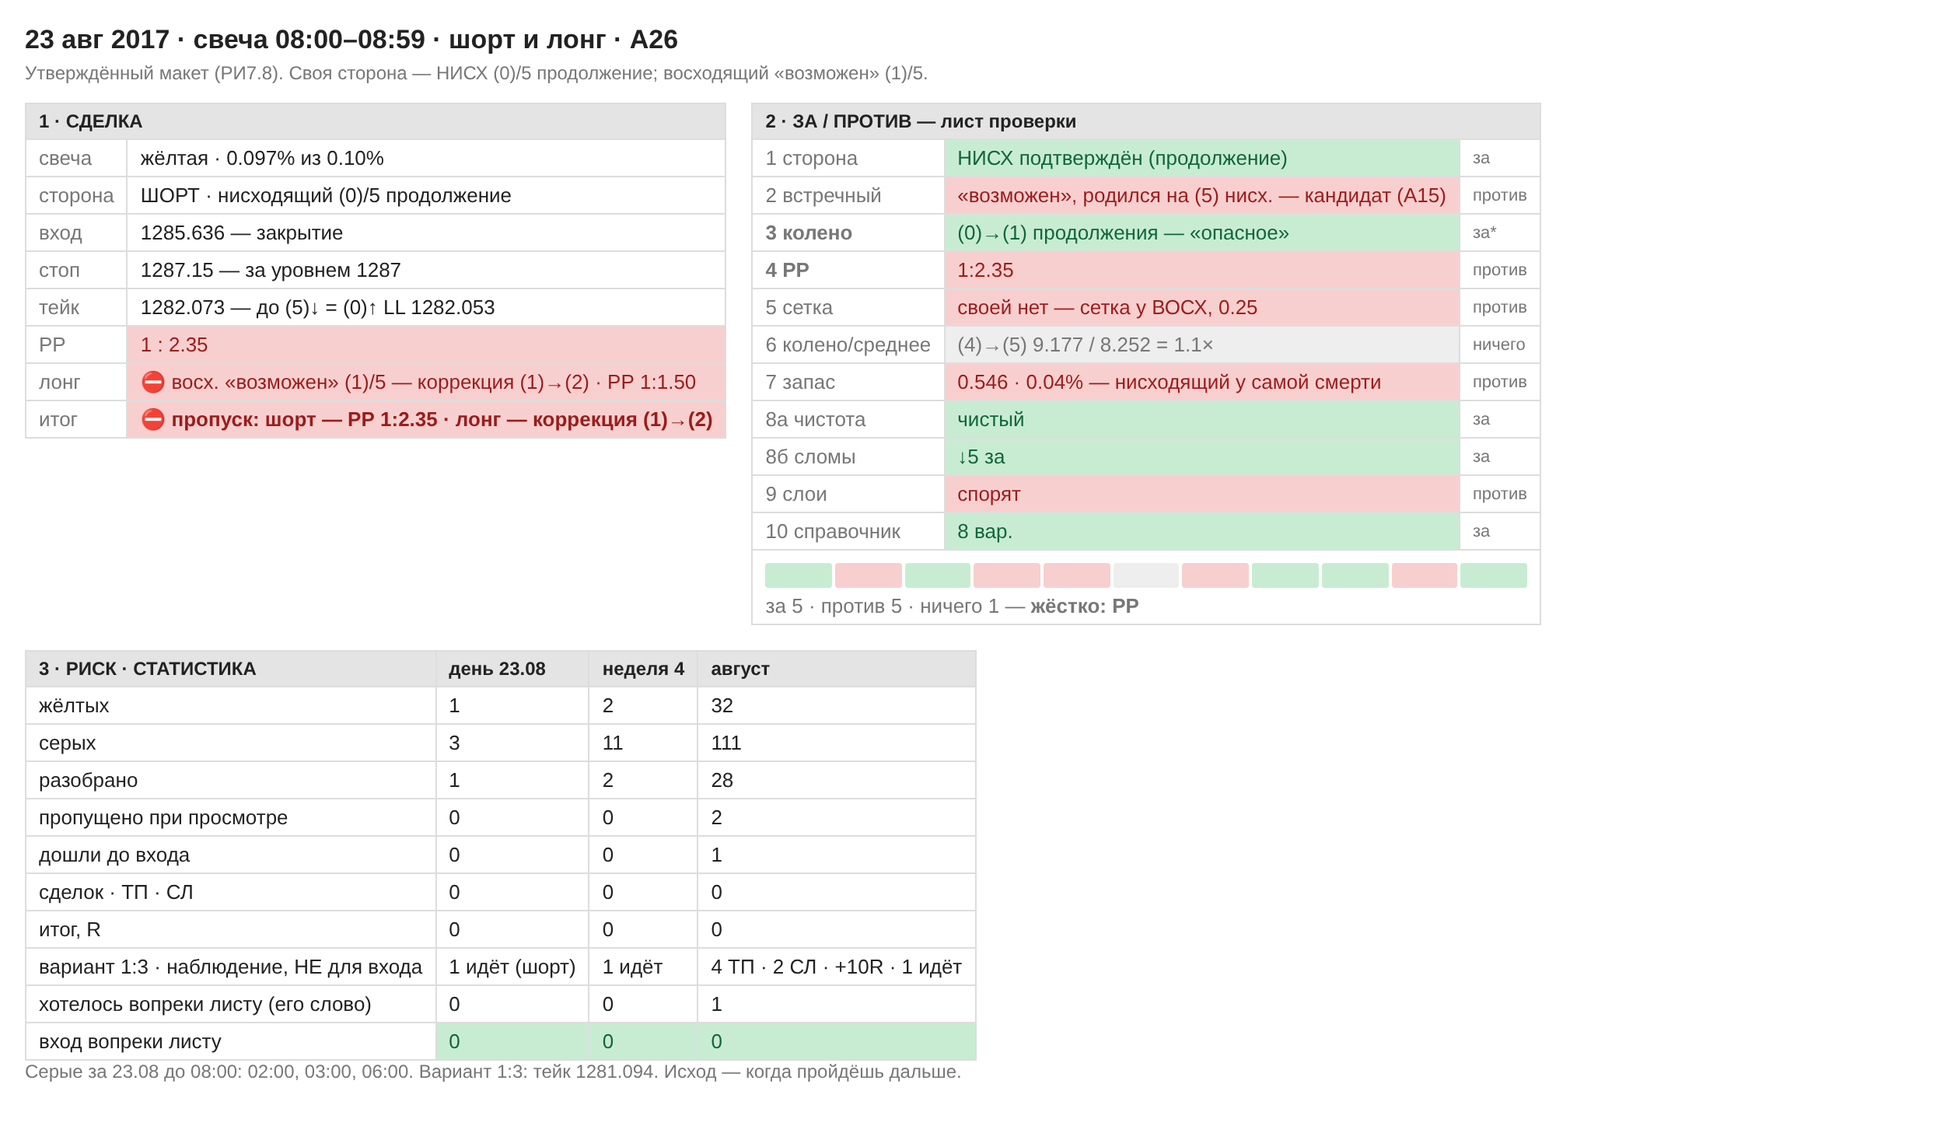
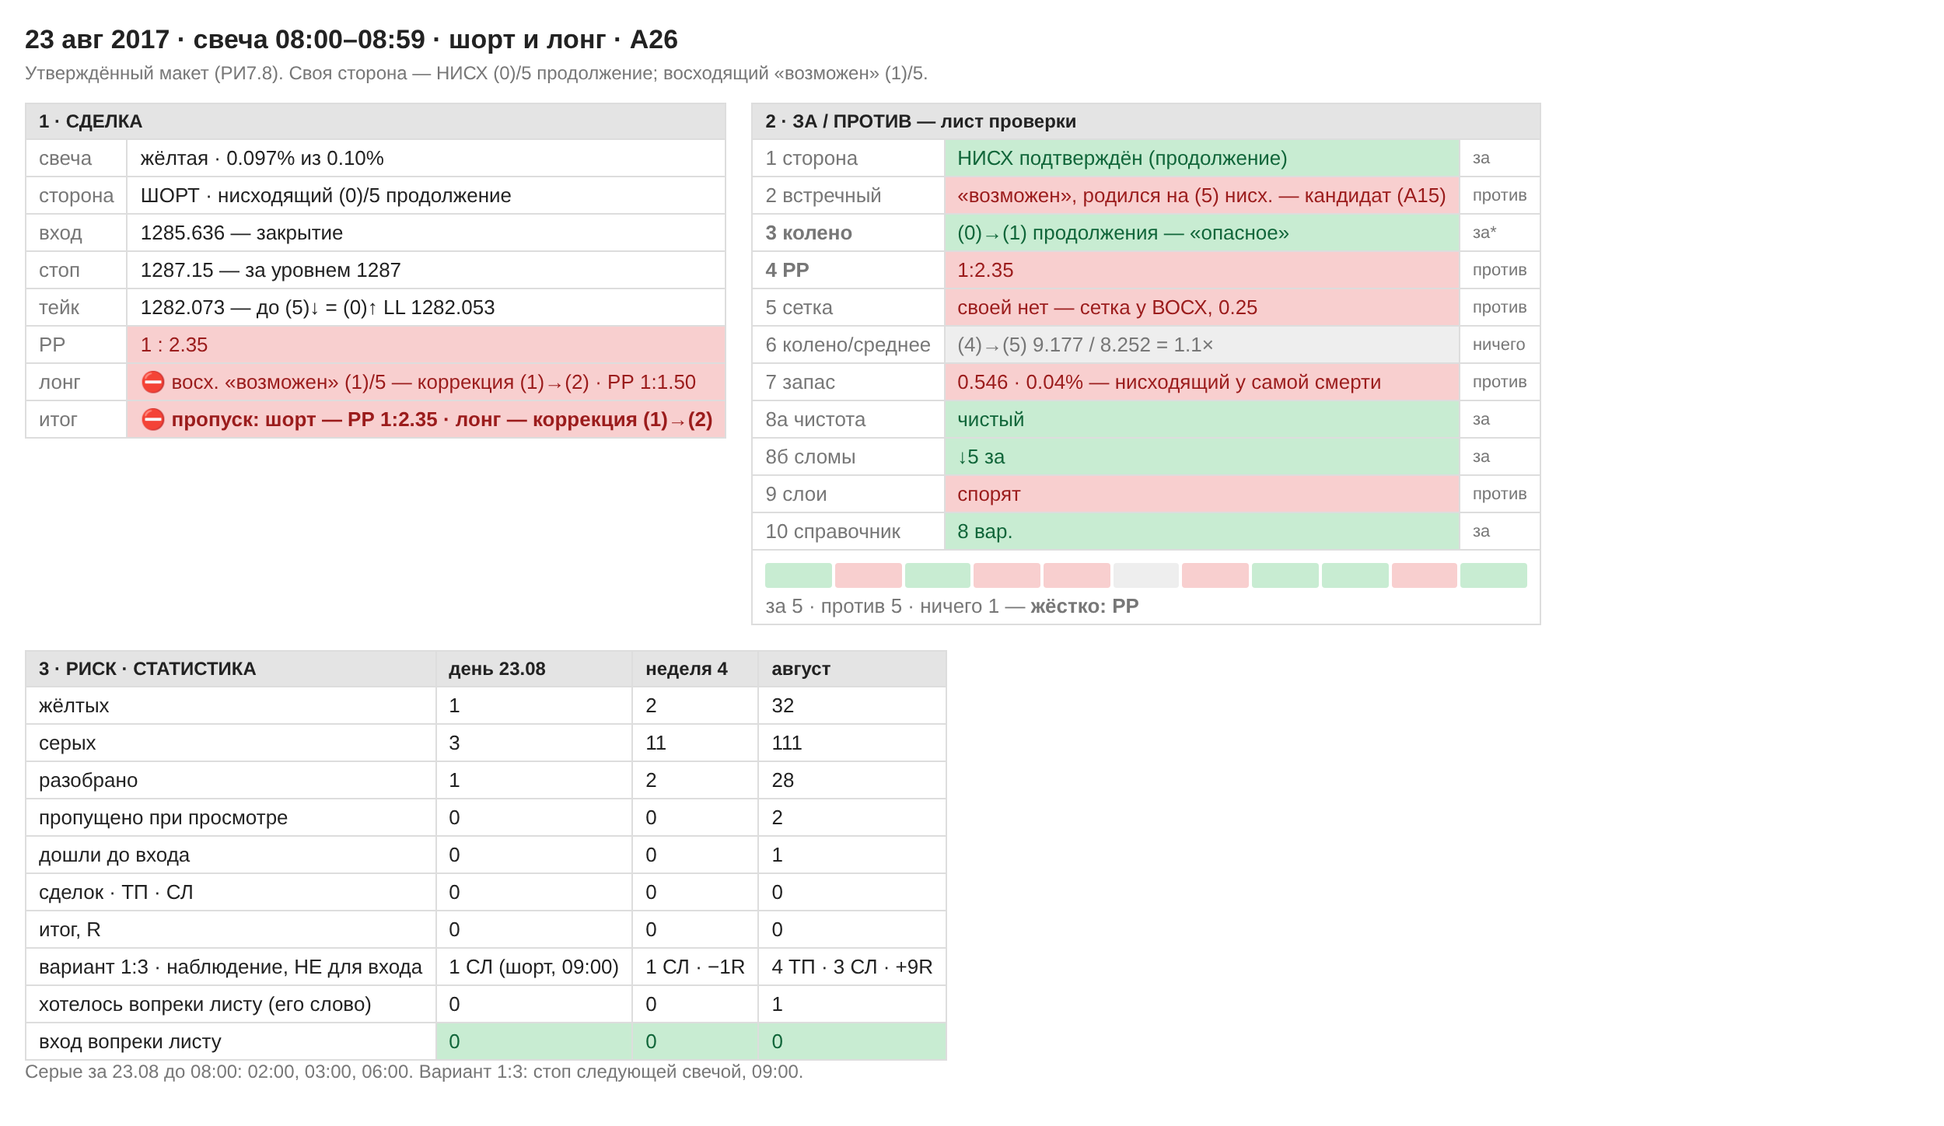
23 авг 08:00: шорт и вариант 1:3 — стоп в 09:00, его слово, сверено; В36 7 случаев, +9R
Claude-Session: https://claude.ai/code/session_01TnuyYeu48W8E686G1zottP

diff --git a/research/out/maket/2017-08-23_0800.html b/research/out/maket/2017-08-23_0800.html
@@ -6,4 +6,4 @@ table{border-collapse:collapse;min-width:360px}td,th{border:1px solid var(--ln);
 th{background:var(--h);font-size:12px}.blk td:first-child{color:var(--mut);white-space:nowrap}
 .g{background:var(--g);color:var(--gt)}.r{background:var(--r);color:var(--rt)}.n{background:var(--n);color:var(--mut)}
 .hard{font-weight:bold}.tag{font-size:11px;color:var(--mut)}
-.bar{display:flex;gap:2px;margin:4px 0}.bar span{flex:1;height:16px;border-radius:2px}</style></head><body><h1>23 авг 2017 · свеча 08:00–08:59 · шорт и лонг · А26</h1><p class="sub">Утверждённый макет (РИ7.8). Своя сторона — НИСХ (0)/5 продолжение; восходящий «возможен» (1)/5.</p><div class="wrap"><table class="blk"><tr><th colspan="2">1 · СДЕЛКА</th></tr><tr><td>свеча</td><td class="">жёлтая · 0.097% из 0.10%</td></tr><tr><td>сторона</td><td class="">ШОРТ · нисходящий (0)/5 продолжение</td></tr><tr><td>вход</td><td class="">1285.636 — закрытие</td></tr><tr><td>стоп</td><td class="">1287.15 — за уровнем 1287</td></tr><tr><td>тейк</td><td class="">1282.073 — до (5)↓ = (0)↑ LL 1282.053</td></tr><tr><td>РР</td><td class="r">1 : 2.35</td></tr><tr><td>лонг</td><td class="r">⛔ восх. «возможен» (1)/5 — коррекция (1)→(2) · РР 1:1.50</td></tr><tr><td>итог</td><td class="r hard">⛔ пропуск: шорт — РР 1:2.35 · лонг — коррекция (1)→(2)</td></tr></table><table class="blk"><tr><th colspan="3">2 · ЗА / ПРОТИВ — лист проверки</th></tr><tr><td class="">1 сторона</td><td class="g">НИСХ подтверждён (продолжение)</td><td class="tag">за</td></tr><tr><td class="">2 встречный</td><td class="r">«возможен», родился на (5) нисх. — кандидат (А15)</td><td class="tag">против</td></tr><tr><td class="hard">3 колено</td><td class="g">(0)→(1) продолжения — «опасное»</td><td class="tag">за*</td></tr><tr><td class="hard">4 РР</td><td class="r">1:2.35</td><td class="tag">против</td></tr><tr><td class="">5 сетка</td><td class="r">своей нет — сетка у ВОСХ, 0.25</td><td class="tag">против</td></tr><tr><td class="">6 колено/среднее</td><td class="n">(4)→(5) 9.177 / 8.252 = 1.1×</td><td class="tag">ничего</td></tr><tr><td class="">7 запас</td><td class="r">0.546 · 0.04% — нисходящий у самой смерти</td><td class="tag">против</td></tr><tr><td class="">8а чистота</td><td class="g">чистый</td><td class="tag">за</td></tr><tr><td class="">8б сломы</td><td class="g">↓5 за</td><td class="tag">за</td></tr><tr><td class="">9 слои</td><td class="r">спорят</td><td class="tag">против</td></tr><tr><td class="">10 справочник</td><td class="g">8 вар.</td><td class="tag">за</td></tr><tr><td colspan="3"><div class="bar"><span class="g"></span><span class="r"></span><span class="g"></span><span class="r"></span><span class="r"></span><span class="n"></span><span class="r"></span><span class="g"></span><span class="g"></span><span class="r"></span><span class="g"></span></div>за 5 · против 5 · ничего 1 — <b>жёстко: РР</b></td></tr></table><table><tr><th>3 · РИСК · СТАТИСТИКА</th><th>день 23.08</th><th>неделя 4</th><th>август</th></tr><tr><td>жёлтых</td><td class="">1</td><td class="">2</td><td class="">32</td></tr><tr><td>серых</td><td class="">3</td><td class="">11</td><td class="">111</td></tr><tr><td>разобрано</td><td class="">1</td><td class="">2</td><td class="">28</td></tr><tr><td>пропущено при просмотре</td><td class="">0</td><td class="">0</td><td class="">2</td></tr><tr><td>дошли до входа</td><td class="">0</td><td class="">0</td><td class="">1</td></tr><tr><td>сделок · ТП · СЛ</td><td class="">0</td><td class="">0</td><td class="">0</td></tr><tr><td>итог, R</td><td class="">0</td><td class="">0</td><td class="">0</td></tr><tr><td>вариант 1:3 · наблюдение, НЕ для входа</td><td class="">1 идёт (шорт)</td><td class="">1 идёт</td><td class="">4 ТП · 2 СЛ · +10R · 1 идёт</td></tr><tr><td>хотелось вопреки листу (его слово)</td><td class="">0</td><td class="">0</td><td class="">1</td></tr><tr><td>вход вопреки листу</td><td class="g">0</td><td class="g">0</td><td class="g">0</td></tr></table></div><p class="sub">Серые за 23.08 до 08:00: 02:00, 03:00, 06:00. Вариант 1:3: тейк 1281.094. Исход — когда пройдёшь дальше.</p></body></html>
+.bar{display:flex;gap:2px;margin:4px 0}.bar span{flex:1;height:16px;border-radius:2px}</style></head><body><h1>23 авг 2017 · свеча 08:00–08:59 · шорт и лонг · А26</h1><p class="sub">Утверждённый макет (РИ7.8). Своя сторона — НИСХ (0)/5 продолжение; восходящий «возможен» (1)/5.</p><div class="wrap"><table class="blk"><tr><th colspan="2">1 · СДЕЛКА</th></tr><tr><td>свеча</td><td class="">жёлтая · 0.097% из 0.10%</td></tr><tr><td>сторона</td><td class="">ШОРТ · нисходящий (0)/5 продолжение</td></tr><tr><td>вход</td><td class="">1285.636 — закрытие</td></tr><tr><td>стоп</td><td class="">1287.15 — за уровнем 1287</td></tr><tr><td>тейк</td><td class="">1282.073 — до (5)↓ = (0)↑ LL 1282.053</td></tr><tr><td>РР</td><td class="r">1 : 2.35</td></tr><tr><td>лонг</td><td class="r">⛔ восх. «возможен» (1)/5 — коррекция (1)→(2) · РР 1:1.50</td></tr><tr><td>итог</td><td class="r hard">⛔ пропуск: шорт — РР 1:2.35 · лонг — коррекция (1)→(2)</td></tr></table><table class="blk"><tr><th colspan="3">2 · ЗА / ПРОТИВ — лист проверки</th></tr><tr><td class="">1 сторона</td><td class="g">НИСХ подтверждён (продолжение)</td><td class="tag">за</td></tr><tr><td class="">2 встречный</td><td class="r">«возможен», родился на (5) нисх. — кандидат (А15)</td><td class="tag">против</td></tr><tr><td class="hard">3 колено</td><td class="g">(0)→(1) продолжения — «опасное»</td><td class="tag">за*</td></tr><tr><td class="hard">4 РР</td><td class="r">1:2.35</td><td class="tag">против</td></tr><tr><td class="">5 сетка</td><td class="r">своей нет — сетка у ВОСХ, 0.25</td><td class="tag">против</td></tr><tr><td class="">6 колено/среднее</td><td class="n">(4)→(5) 9.177 / 8.252 = 1.1×</td><td class="tag">ничего</td></tr><tr><td class="">7 запас</td><td class="r">0.546 · 0.04% — нисходящий у самой смерти</td><td class="tag">против</td></tr><tr><td class="">8а чистота</td><td class="g">чистый</td><td class="tag">за</td></tr><tr><td class="">8б сломы</td><td class="g">↓5 за</td><td class="tag">за</td></tr><tr><td class="">9 слои</td><td class="r">спорят</td><td class="tag">против</td></tr><tr><td class="">10 справочник</td><td class="g">8 вар.</td><td class="tag">за</td></tr><tr><td colspan="3"><div class="bar"><span class="g"></span><span class="r"></span><span class="g"></span><span class="r"></span><span class="r"></span><span class="n"></span><span class="r"></span><span class="g"></span><span class="g"></span><span class="r"></span><span class="g"></span></div>за 5 · против 5 · ничего 1 — <b>жёстко: РР</b></td></tr></table><table><tr><th>3 · РИСК · СТАТИСТИКА</th><th>день 23.08</th><th>неделя 4</th><th>август</th></tr><tr><td>жёлтых</td><td class="">1</td><td class="">2</td><td class="">32</td></tr><tr><td>серых</td><td class="">3</td><td class="">11</td><td class="">111</td></tr><tr><td>разобрано</td><td class="">1</td><td class="">2</td><td class="">28</td></tr><tr><td>пропущено при просмотре</td><td class="">0</td><td class="">0</td><td class="">2</td></tr><tr><td>дошли до входа</td><td class="">0</td><td class="">0</td><td class="">1</td></tr><tr><td>сделок · ТП · СЛ</td><td class="">0</td><td class="">0</td><td class="">0</td></tr><tr><td>итог, R</td><td class="">0</td><td class="">0</td><td class="">0</td></tr><tr><td>вариант 1:3 · наблюдение, НЕ для входа</td><td class="">1 СЛ (шорт, 09:00)</td><td class="">1 СЛ · −1R</td><td class="">4 ТП · 3 СЛ · +9R</td></tr><tr><td>хотелось вопреки листу (его слово)</td><td class="">0</td><td class="">0</td><td class="">1</td></tr><tr><td>вход вопреки листу</td><td class="g">0</td><td class="g">0</td><td class="g">0</td></tr></table></div><p class="sub">Серые за 23.08 до 08:00: 02:00, 03:00, 06:00. Вариант 1:3: стоп следующей свечой, 09:00.</p></body></html>

diff --git a/indicator/ТАБЛО-НА-СВЕЧЕ.md b/indicator/ТАБЛО-НА-СВЕЧЕ.md
@@ -38,7 +38,7 @@
 | 17 авг 07:00 | А23 | скрин | **ВОСХ** / умер | **(5)** / — | ↑ манипуляция, ↑5 за, вне справ. | согласны (вверх) | 1.64% | 21.770 / 7.750 | ВОСХ `(4)→(5)`, 0.094 — между | лонг 1:3.34 | пропуск: счёт (5), сетка | лонг — **стоп** в 09:00, (5) уберёг 1R |
 | 18 авг 06:00 | А24 | скрин | **ВОСХ** / **НИСХ** | (2) / **(5)** | ↑ чистый, ↓2 ПРОТИВ · ↓ чистый, ↓2 за | согласны (вниз) | 0.21% (ближе к концу) | 8.208 / 7.450 (данные) | у НИСХ колено мелкое — сетки нет | лонг 1:1.71 · шорт 1:1.19 | пропуск: лонг — РР; шорт — (5), РР | лонг — тейк у вершины **взят** в 10:00 (и 1:3 тоже) |
 | 21 авг 07:00 | А25 | скрин | **ВОСХ** / возможен | (4)·**(5) предв.** / (1)·(2) предв. | ↑ манипуляция, ↓3 ПРОТИВ, вне справ. · ↓ чистый, ↓3 за | согласны (вниз) | 0.54% (ближе к концу) | 14.930 / 8.369 | ВОСХ `(2)→(3)`, отменена — вышла за 0,79 | **лонг 1:14.85** · шорт 1:4.06 | **пропуск**: лонг — бледная (5), его слово «пока бледная — не входим» (ТС8.13); шорт — «возможен» на коррекции (А15) | лонг — **стоп** в 08:00, ТС8.13 уберёг 1R · шорт — **стоп** в 09:00 |
-| 23 авг 08:00 | А26 | скрин | возможен / **НИСХ** | (1) / **(0)** продолж. | ↑ чистый, ↓5 ПРОТИВ · ↓ чистый, ↓5 за | спорят | ↓ 0.04% (ближе к концу) | 9.177 / 8.252 (данные) | у ВОСХ `(0)→(1)`, 0.25 — не дошла до 0,382 | шорт 1:2.35 · лонг 1:1.50 | пропуск: шорт — РР; лонг — коррекция `(1)→(2)` | — идёт |
+| 23 авг 08:00 | А26 | скрин | возможен / **НИСХ** | (1) / **(0)** продолж. | ↑ чистый, ↓5 ПРОТИВ · ↓ чистый, ↓5 за | спорят | ↓ 0.04% (ближе к концу) | 9.177 / 8.252 (данные) | у ВОСХ `(0)→(1)`, 0.25 — не дошла до 0,382 | шорт 1:2.35 · лонг 1:1.50 | пропуск: шорт — РР; лонг — коррекция `(1)→(2)` | шорт — **стоп** в 09:00 (и 1:3 тоже) · лонг — тейк 1:1.50 взят бы там же |
 
 ⚠ **8 авг 03:00 — табло на бар позади.** На закрытии свечи было уже
 **(2)** и **ВОСХ**; на графике он видел (1) и «возможен» — З77, починено в
@@ -185,11 +185,11 @@ v3.44 (на проверке).
 | 15 авг 11:00 | шорт | 1274.8655 | 1276.15 | 1272.427 | 1:1.90 | **1271.012** | 1.40 | ⛔ **не все**: сетка | ✅ **тейк** в 15:00 |
 | 16 авг 06:00 | лонг | 1273.078 | 1271.85 | 1275.156 | 1:1.69 | **1276.762** | 1.59 | ⛔ **не все**: (3) предв., сетка, сломы, запас | ⛔ **стоп** в 09:00 |
 | 18 авг 06:00 | лонг | 1287.175 | 1285.85 | 1289.442 | 1:1.71 | **1291.150** | 1.69 | ⛔ **не все**: запас, сломы, слои, встречный жив | ✅ **тейк** в 10:00 (макс. 1295.042), стоп не задет — минимум после входа 1286.813 |
-| 23 авг 08:00 | шорт | 1285.636 | 1287.15 | 1282.073 | 1:2.35 | **1281.094** | 0.96 | ⛔ **не все**: встречный-кандидат, сетка, запас, слои | — идёт |
+| 23 авг 08:00 | шорт | 1285.636 | 1287.15 | 1282.073 | 1:2.35 | **1281.094** | 0.96 | ⛔ **не все**: встречный-кандидат, сетка, запас, слои | ⛔ **стоп** следующей свечой, 09:00 (макс. 1287.268) |
 
 Тейк до вершины (3) 1267.246 был бы взят тоже в 10:00 — у обеих свечей.
 
-**Итог шести случаев В36:** 4 тейка (9 авг ×2 — спорно «все за»; 15 авг и 18 авг — «не все за») · 2 стопа (11 авг, 16 авг — оба «не все за») → **+10R**. Шесть случаев — не вывод. ~~Итог пяти: +7R.~~ **Наблюдение, НЕ правило входа** (А22).
+**Итог семи случаев В36:** 4 тейка (9 авг ×2 — спорно «все за»; 15 авг и 18 авг — «не все за») · 3 стопа (11 авг, 16 авг, 23 авг — все «не все за») → **+9R**. Семь случаев — не вывод. «Не все за» отдельно: 5 случаев, 2 тейка · 3 стопа, +3R. ~~Итог шести: +10R.~~ ~~Итог пяти: +7R.~~ **Наблюдение, НЕ правило входа** (А22).
 
 ⚠ **9 августа — пример ли это «все за»?** По его правилу колен на (3)/5
 лонг не берётся, то есть не всё за. Показываю расхождение, не выбираю:

diff --git a/indicator/КАК-ТОРГУЮ.md b/indicator/КАК-ТОРГУЮ.md
@@ -3674,3 +3674,17 @@ HH 1300.926** (ТС8.10).
 листу» — спрошено.
 
 **Ответ, 18.11.2026:** «нет, желания не было». «Хотелось вопреки листу» — **0**.
+
+#### ИСХОД 23 авг 08:00 — его слово «там был бы стоп следующей свечой». Сверено
+
+Свеча 09:00 `1285.636 · 1287.268 · 1285.344 · 1286.258` — максимум выше
+стопа 1287.15:
+
+| | вход | стоп | тейк | исход |
+|---|---|---|---|---|
+| шорт до вершины, РР 1:2.35 — не сделка по листу | 1285.636 | 1287.15 | 1282.073 | ⛔ **стоп** в 09:00 |
+| шорт, вариант 1:3 (В36) | 1285.636 | 1287.15 | 1281.094 | ⛔ **стоп** в 09:00 |
+| лонг на коррекции `(1)→(2)`, РР 1:1.50 — не торгуется | 1285.636 | 1284.85 | 1286.812 | тейк взят бы там же, 09:00 |
+
+В36 теперь: **7 случаев, 4 тейка · 3 стопа, +9R**; «не все за» — 5
+случаев, 2 тейка · 3 стопа, +3R. Наблюдение, не правило входа (А22).
